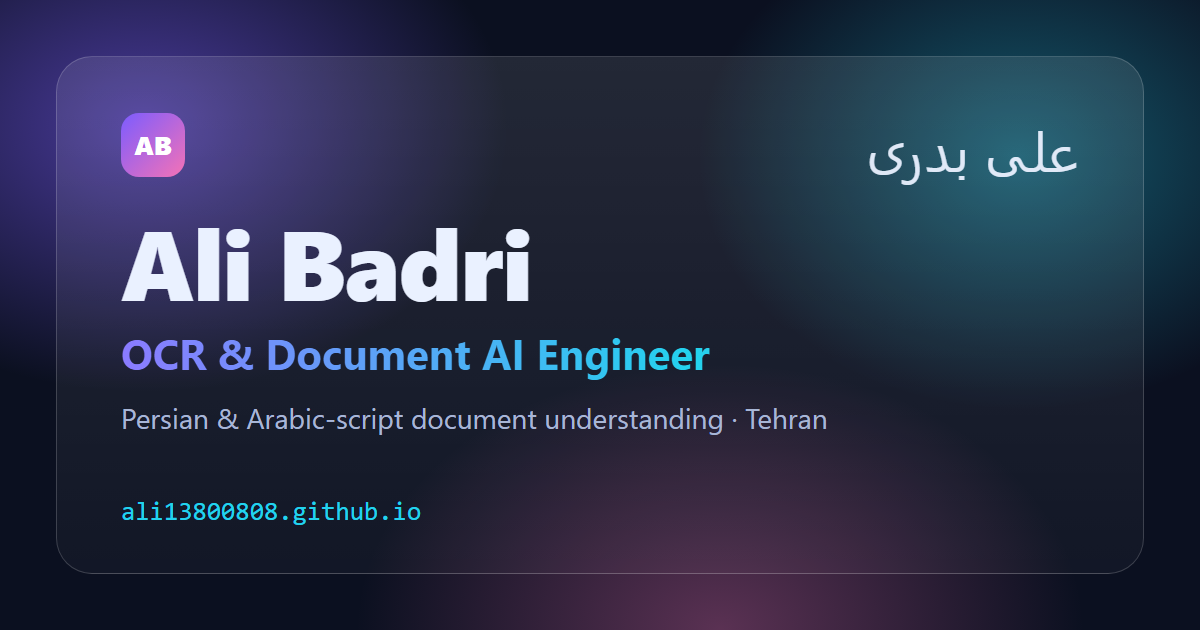
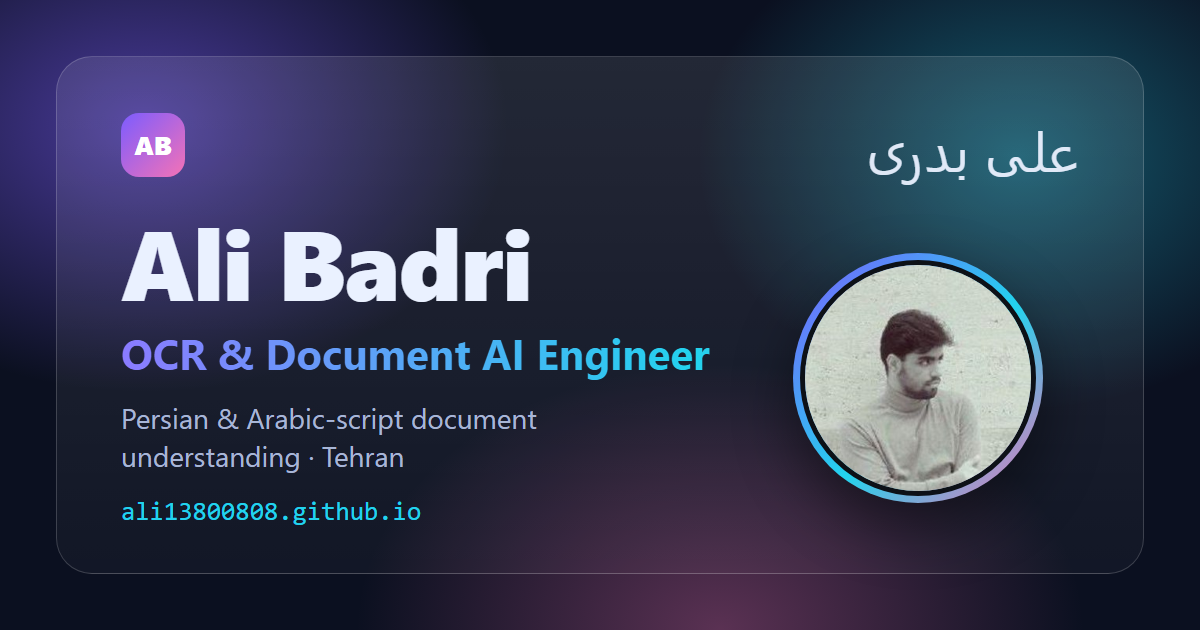
Add profile portrait to the landing page
Circular portrait with a gradient ring in the hero (cropped to head and
shoulders from the public GitHub profile picture), also used on the
social-share card. On phones the portrait leads and the decorative card
moves below the text. The printed PDF resumes stay photo-free.

Changed region(s): [[0.4625, 0.3921, 0.8942, 0.8143], [0.0925, 0.6937, 0.3392, 0.754]]

diff --git a/styles.css b/styles.css
@@ -122,6 +122,15 @@ main:focus { outline: none; }
 /* hero */
 .hero { padding: clamp(36px, 8vw, 84px) 0 clamp(20px, 4vw, 40px); }
 .hero-grid { display: grid; grid-template-columns: 1.15fr 0.85fr; gap: 36px; align-items: center; }
+.avatar {
+  width: 132px; height: 132px; margin: 0 0 20px; padding: 4px; border-radius: 50%;
+  background: linear-gradient(135deg, var(--accent), var(--accent-2) 55%, var(--accent-3));
+  box-shadow: 0 16px 44px rgba(0, 0, 0, 0.35);
+}
+.avatar img {
+  display: block; width: 100%; height: 100%; border-radius: 50%; object-fit: cover;
+  background: var(--surface-2); border: 3px solid var(--bg);
+}
 .eyebrow { margin: 0 0 8px; color: var(--accent-2); font-weight: 600; font-size: 14px; }
 html[lang="en"] .eyebrow { letter-spacing: 0.08em; text-transform: uppercase; }
 h1 { margin: 0; font-size: clamp(40px, 7.5vw, 68px); line-height: 1.05; font-weight: 800; }
@@ -230,6 +239,7 @@ html[lang="fa"] .arrow { display: inline-block; transform: scaleX(-1); }
 .hero-copy > *:nth-child(2) { animation-delay: .05s; } .hero-copy > *:nth-child(3) { animation-delay: .1s; }
 .hero-copy > *:nth-child(4) { animation-delay: .15s; } .hero-copy > *:nth-child(5) { animation-delay: .2s; }
 .hero-copy > *:nth-child(6) { animation-delay: .25s; } .hero-copy > *:nth-child(7) { animation-delay: .3s; }
+.hero-copy > *:nth-child(8) { animation-delay: .35s; }
 @keyframes rise { from { opacity: 0; transform: translateY(14px); } to { opacity: 1; transform: none; } }
 
 @media (prefers-reduced-motion: reduce) {
@@ -242,7 +252,7 @@ html[lang="fa"] .arrow { display: inline-block; transform: scaleX(-1); }
 /* small screens */
 @media (max-width: 820px) {
   .hero-grid { grid-template-columns: 1fr; }
-  .hero-art { max-width: 380px; margin-inline: auto; order: -1; }
+  .hero-art { max-width: 340px; margin-inline: auto; order: 2; }
   .two { grid-template-columns: 1fr; gap: 22px; }
   .nav { display: none; }
   .lang { margin-inline-start: auto; }
@@ -258,7 +268,7 @@ html[lang="fa"] .arrow { display: inline-block; transform: scaleX(-1); }
   html { font-size: 9.1pt; }
   body { background: #fff; color: #111827; font-size: 9.1pt; line-height: 1.32; }
   html[lang="fa"] body { line-height: 1.42; }
-  body::before, .site-header, .hero-art, .actions, .skip, .site-footer, .note, .nav, .lang, #projects .more { display: none !important; }
+  body::before, .site-header, .hero-art, .avatar, .actions, .skip, .site-footer, .note, .nav, .lang, #projects .more { display: none !important; }
   .print-only { display: block; margin: 6px 0 0; color: #111827; font-size: 10pt; }
   html[lang="fa"] .print-only { text-align: right; }
   .hero { padding: 0 0 6px; }

diff --git a/index.html b/index.html
@@ -34,6 +34,7 @@
     "alternateName": "علی بدری",
     "jobTitle": "OCR & Document AI Engineer",
     "url": "https://ali13800808.github.io/",
+    "image": "https://ali13800808.github.io/profile.jpg",
     "address": { "@type": "PostalAddress", "addressLocality": "Tehran", "addressCountry": "IR" },
     "sameAs": [
       "https://github.com/ali13800808",
@@ -69,6 +70,7 @@
     <section class="hero" id="top">
       <div class="wrap hero-grid">
         <div class="hero-copy">
+          <div class="avatar"><img src="profile.jpg" width="144" height="144" alt="Portrait of Ali Badri" decoding="async" fetchpriority="high"></div>
           <p class="eyebrow"><span class="en">Tehran, Iran</span><span class="fa" lang="fa">تهران، ایران</span></p>
           <h1>
             <span class="en">Ali Badri</span><span class="fa" lang="fa">علی بدری</span>
